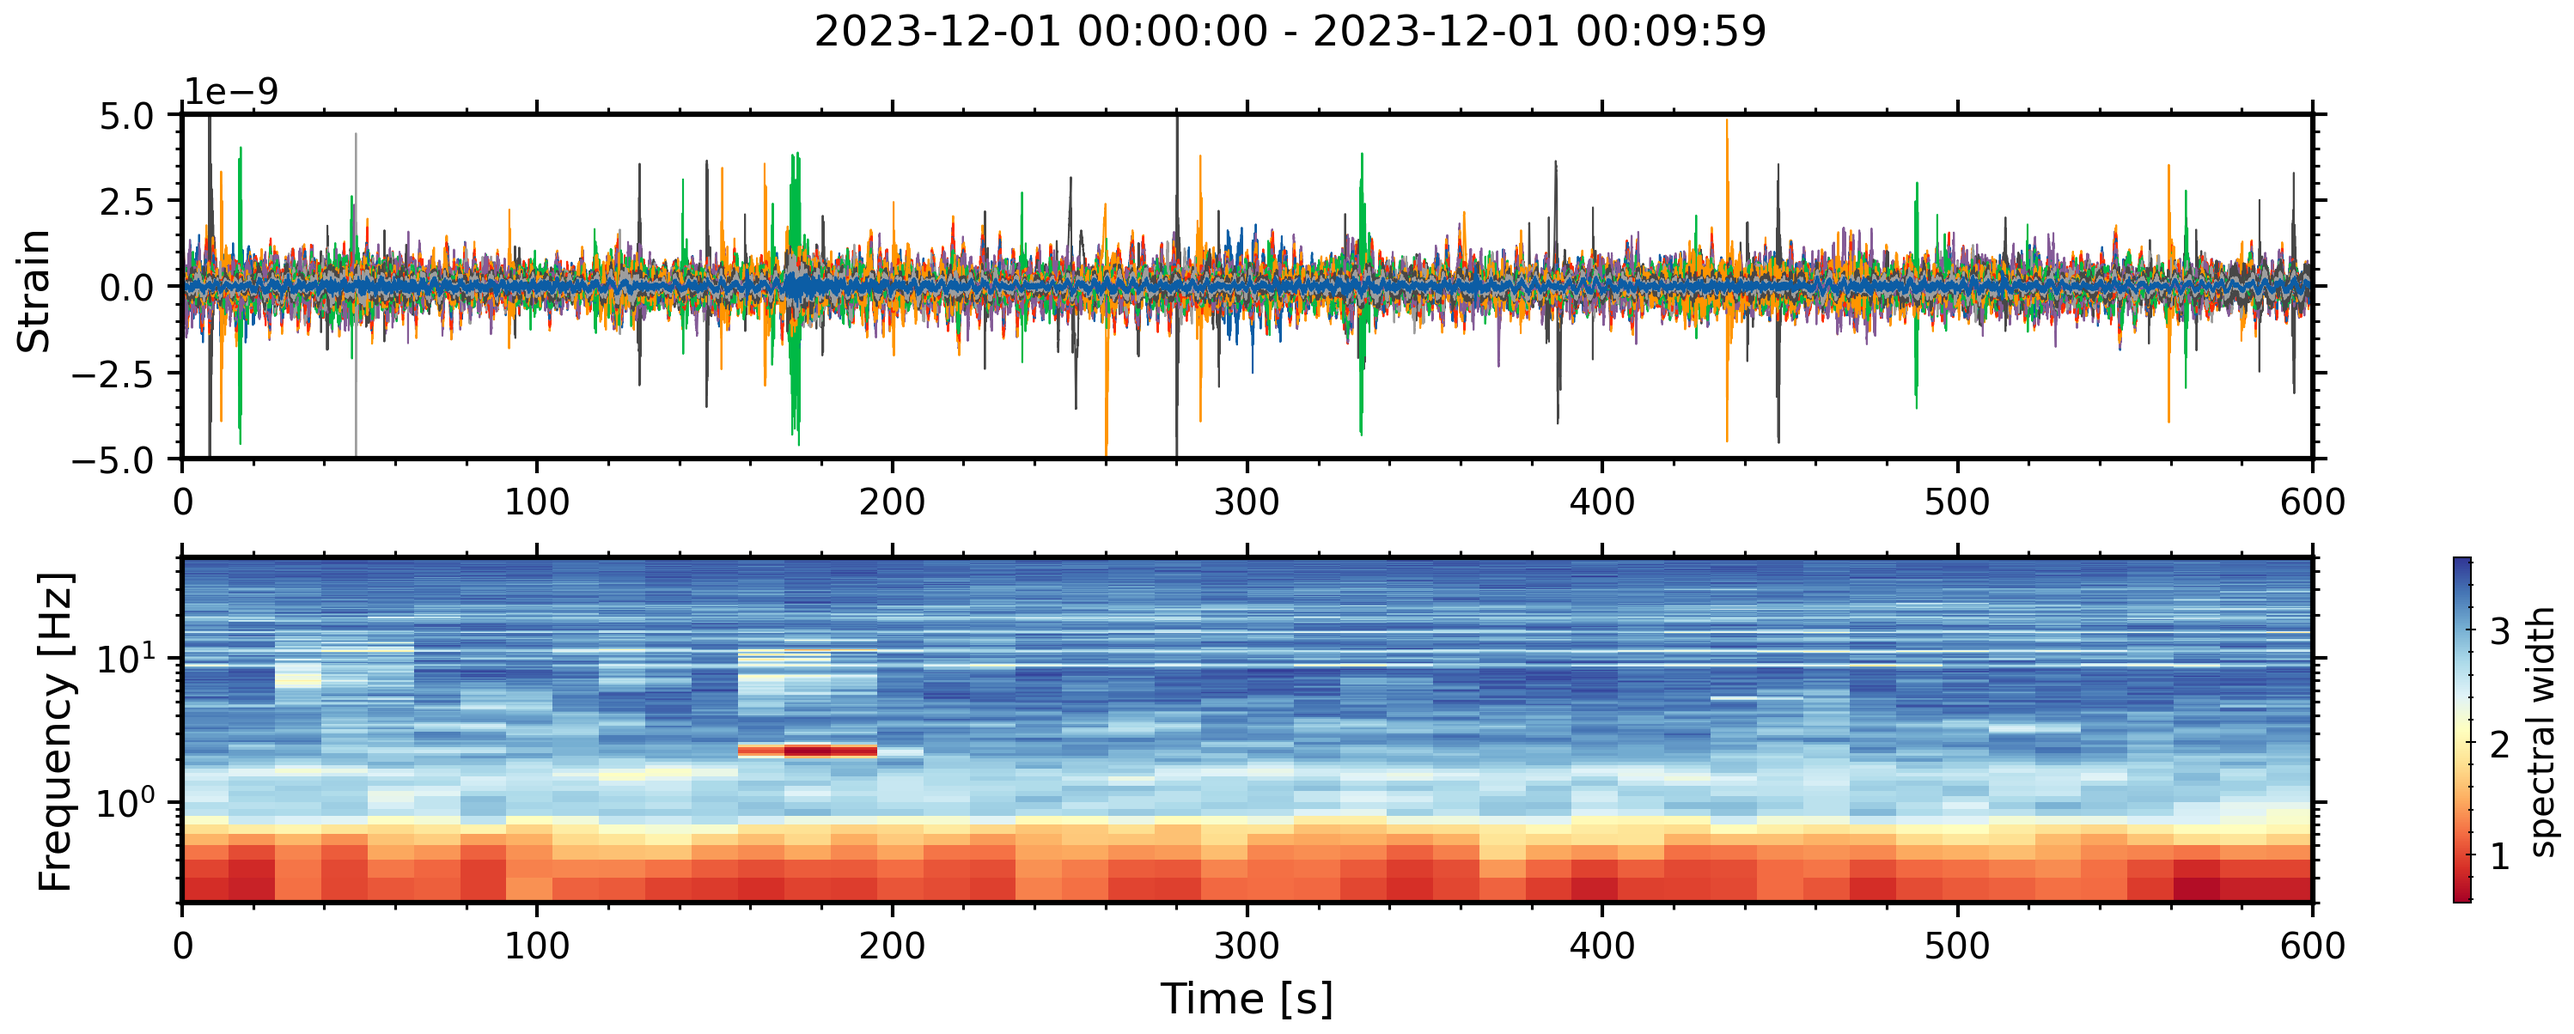
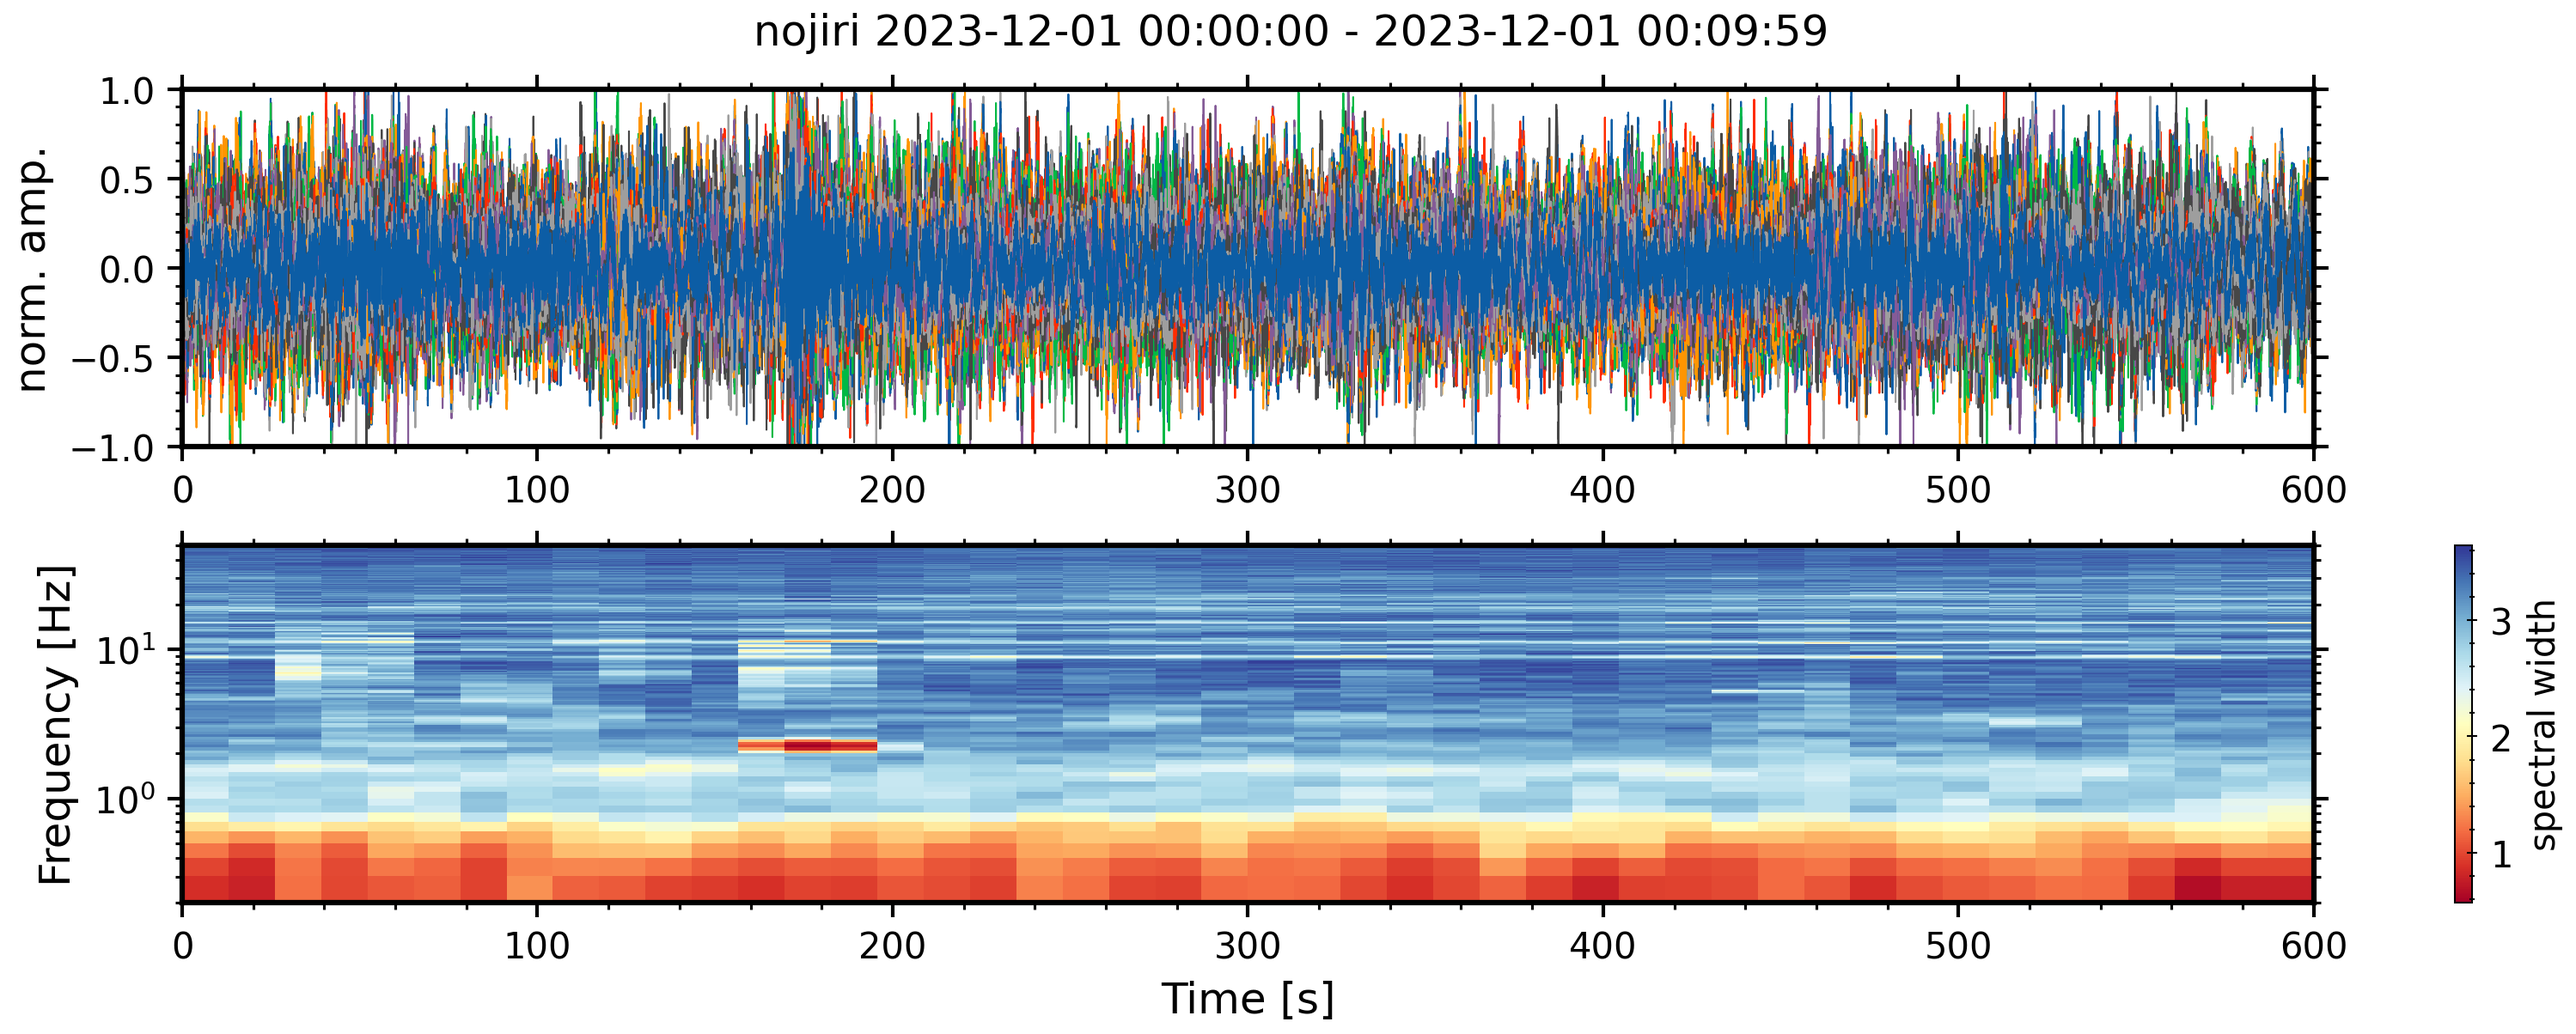
update

diff --git a/sakuradas_covmat/utils/read_hdf5.py b/sakuradas_covmat/utils/read_hdf5.py
@@ -7,12 +7,11 @@ import time
 
 
 
-def phase2strain(phase):
-    lamda = 1550.12 * 1e-9 ### 光の波長 [m]
-    n = 1.4682 ### 光ファイバーの屈折率
-    xi = 0.78 ### photo-elastic scaling factor
-    G = 9.9259261 ### ゲージ⻑ [m] 
-    return (lamda*phase) / (4*np.pi*n*xi*G)
+def phase2strain(phase, gauge_length):
+    lamda = 1550.12 * 1e-9 
+    n = 1.4682 
+    xi = 0.78
+    return (lamda*phase) / (4*np.pi*n*xi*gauge_length)
 
 
 # JSTに変換する関数
@@ -27,18 +26,16 @@ def read_hdf5(filename, fiber):
     with h5py.File(filename, "r") as h5file:
         raw_data = h5file['Acquisition/Raw[0]/RawData'][:]
         raw_data = np.transpose(raw_data)
-
-        # StartTimeの取得
+        
         start_time_str = h5file["/Acquisition/Raw[0]/RawDataTime"].attrs["StartTime"].decode('utf-8')
         start_time = datetime.fromisoformat(start_time_str.replace('Z', '+00:00'))
 
-        # EndTimeの取得
         end_time_str = h5file["/Acquisition/Raw[0]/RawDataTime"].attrs["EndTime"].decode('utf-8')
         end_time = datetime.fromisoformat(end_time_str.replace('Z', '+00:00'))
 
-        # OutputDataRateの取得
         output_data_rate = h5file["/Acquisition/Raw[0]"].attrs["OutputDataRate"]
         
+        G = h5file["/Acquisition"].attrs["GaugeLength"]
         
     # StartTimeとEndTimeをJSTに変換
     start_time_jst = to_jst(start_time)
@@ -53,11 +50,13 @@ def read_hdf5(filename, fiber):
 
     st_minute = Stream()
     for i in range(raw_data.shape[0]):
-        tr = Trace(phase2strain(raw_data[i,:]))
+        tr = Trace(phase2strain(raw_data[i,:], G))
         tr.stats.starttime = start_time_jst
         tr.stats.sampling_rate = output_data_rate
         if fiber=='round':
-            tr.stats.channel = "sak"+str(i).zfill(4)
+            tr.stats.channel = "X"
+            tr.stats.network = "SAK"
+            tr.stats.station = str(i).zfill(4)
         elif fiber=='nojiri':
             tr.stats.channel = "X"
             tr.stats.network = "NOJ"

diff --git a/sakuradas_covmat/utils/cov_utils.py b/sakuradas_covmat/utils/cov_utils.py
@@ -117,10 +117,10 @@ def network_covmat():
     ax0 = fig.add_subplot(211)
     lapset = np.arange(0, windL, 1/Fs)
     for i in range(len(stream_plot)):
-        ax0.plot(lapset, stream_plot[i].data, lw=0.5, label=stream_plot[i].stats.network.lower()+stream_plot[i].stats.station.replace(" ", ""))
+        ax0.plot(lapset, stream_plot[i].data/np.nanmax(np.abs(stream_plot[i].data)), lw=0.5, label=stream_plot[i].stats.network.lower()+stream_plot[i].stats.station.replace(" ", ""))
     
-    ax0.set_ylabel("Strain", fontsize=12)
-    ax0.set_ylim(-5e-9, 5e-9)
+    ax0.set_ylabel("norm. amp.", fontsize=12)
+    ax0.set_ylim(-1, 1)
     ax0.set_xlim(0, windL)
     #ax0.legend(bbox_to_anchor=(1.05, 1), loc='upper left', borderaxespad=0, fontsize=8)
     for spine in ax0.spines.values():
@@ -171,7 +171,7 @@ def network_covmat():
     ax1.tick_params(axis='both', which='minor', length=2, width=0.75)
     ax1.tick_params(which='both', direction='out')
     
-    plt.suptitle(stream_cov[0].stats.starttime.strftime("%Y-%m-%d %H:%M:%S") + " - " + stream_cov[0].stats.endtime.strftime("%Y-%m-%d %H:%M:%S"), fontsize=12)
+    plt.suptitle(fiber+' '+stream_cov[0].stats.starttime.strftime("%Y-%m-%d %H:%M:%S") + " - " + stream_cov[0].stats.endtime.strftime("%Y-%m-%d %H:%M:%S"), fontsize=12)
     
     
     os.makedirs('figure', exist_ok=True)
